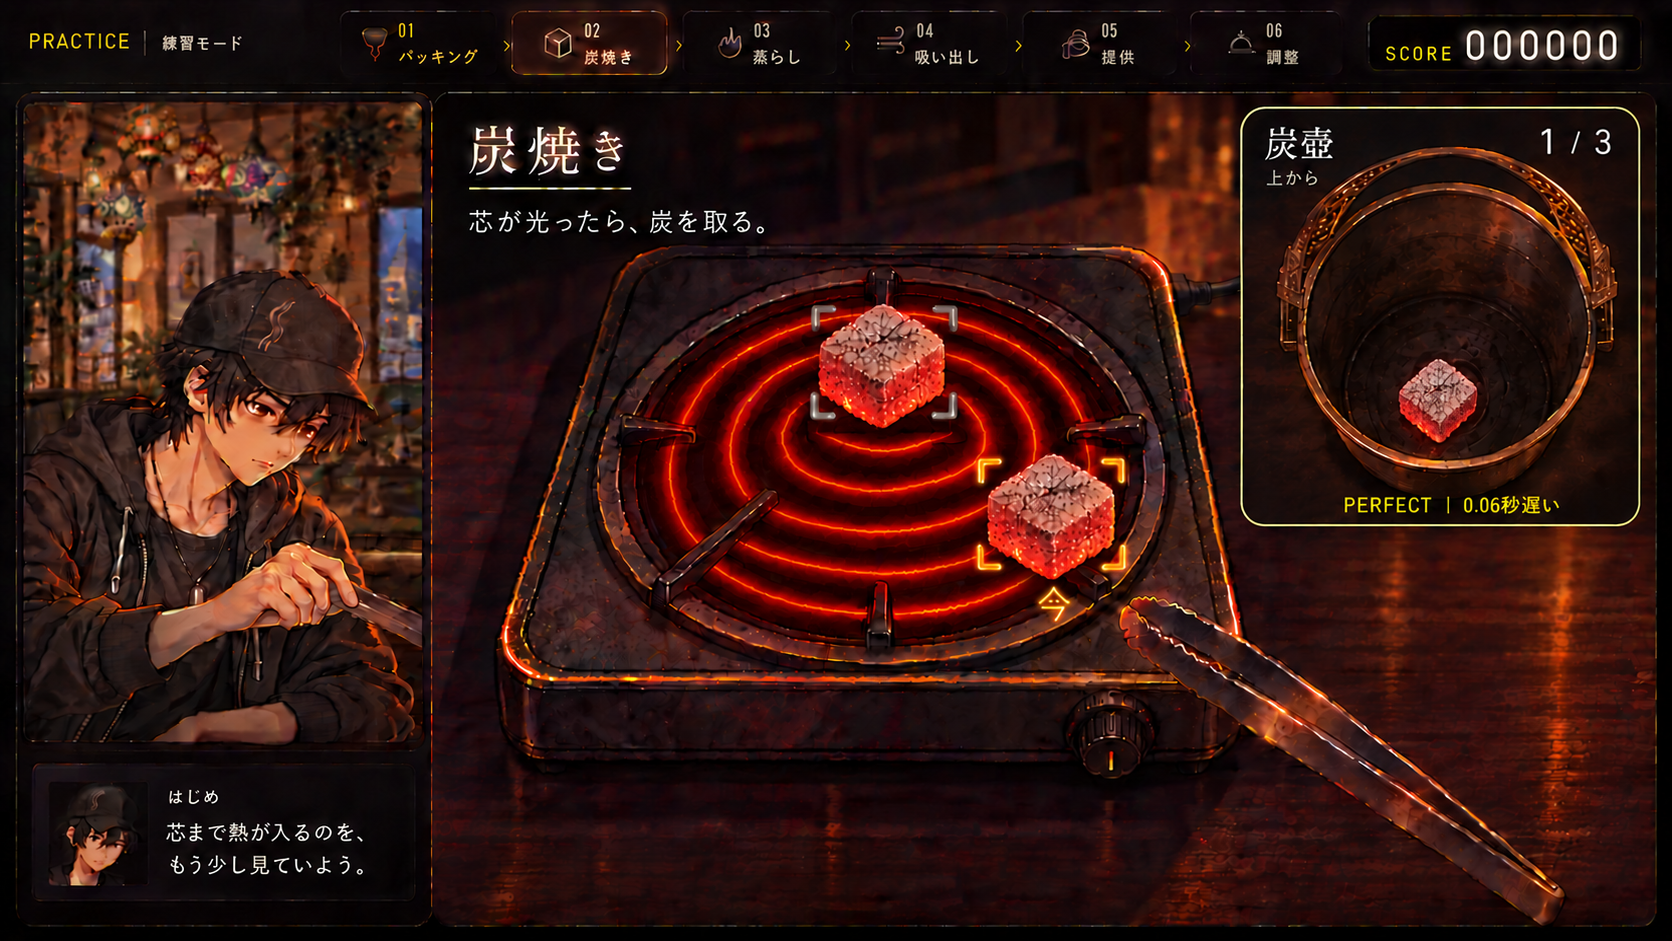
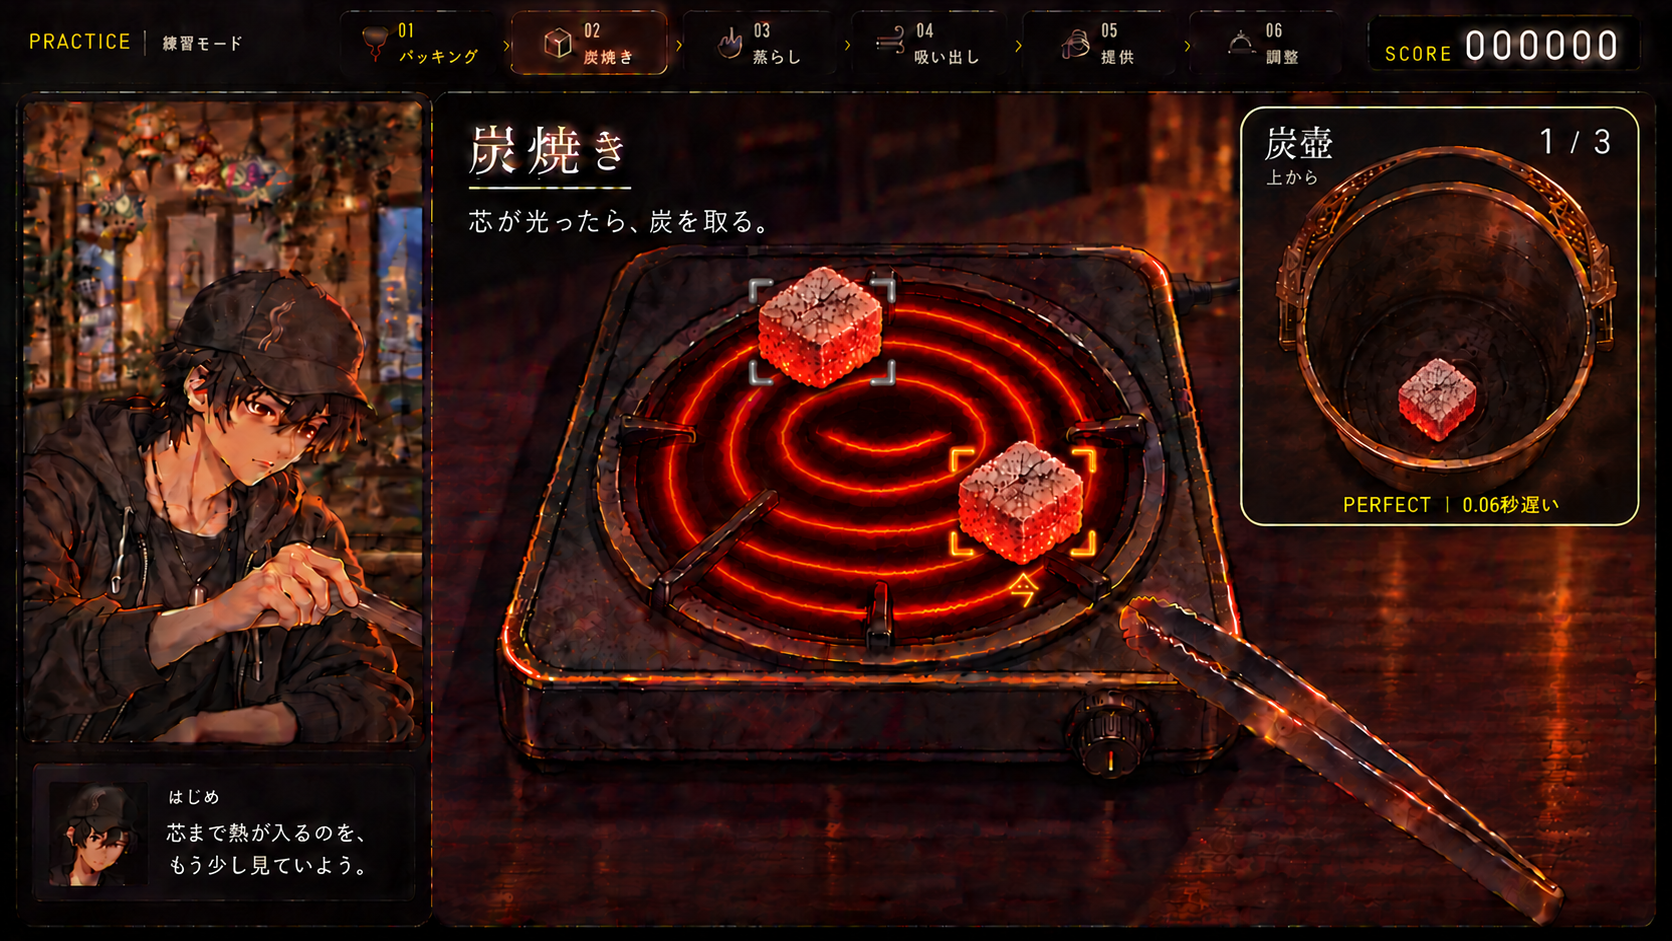
design(heat): place triangular coals on heated turns around clear center

diff --git a/asset_sources/coal-heat-ui-proposals/hybrid.html b/asset_sources/coal-heat-ui-proposals/hybrid.html
@@ -14,14 +14,14 @@
 <header><div><p class="eyebrow">水煙前線 -EN:CODE-　／　A × B HYBRID</p><h1>炭焼きUI</h1></div><div class="scope">静止モック<br>画像を押すと拡大</div></header>
 <main>
 <div class="toolbar"><div class="tabs" role="tablist" aria-label="取り出し前後"><button class="tab" role="tab" id="before" aria-selected="true" aria-controls="single" data-state="before">取り出す前 · 0/3</button><button class="tab" role="tab" id="after" aria-selected="false" aria-controls="single" tabindex="-1" data-state="after">1個回収後 · 1/3</button></div><button class="compare-btn" id="compare" aria-pressed="false">前後を並べる</button></div>
-<section id="single" role="tabpanel" aria-labelledby="before"><div class="viewer"><img id="hero" src="AB-hybrid-before.png?rev=layout-v6" alt="取り出し前。番号のない炭3個を同じ向きで平置きし、互いに離した配置。炭壺に0個。コンロ後部に電源コード。右上の角丸小窓には別視点で上から見た空の炭壺。" tabindex="0" data-zoom></div></section>
-<section class="both" id="both" aria-label="回収前後の比較" hidden><figure><img src="AB-hybrid-before.png?rev=layout-v6" alt="取り出し前：番号のない炭3個を同じ向きで平置きし、互いに離した配置。炭壺に0個。" tabindex="0" data-zoom><figcaption>取り出す前 · 0/3</figcaption></figure><figure><img src="AB-hybrid-after.png?rev=layout-v6" alt="1個回収後：コンロに2個、別視点の角丸小窓の炭壺に1個。炭の番号なし。" tabindex="0" data-zoom><figcaption>1個回収後 · 1/3</figcaption></figure></section>
+<section id="single" role="tabpanel" aria-labelledby="before"><div class="viewer"><img id="hero" src="AB-hybrid-before.png?rev=ring-v7" alt="取り出し前。番号のない炭3個を同じ向きで平置き。奥は左奥のコイル上、手前2個は内側に寄せ、中央を空けた三角配置。炭壺に0個。コンロ後部に電源コード。右上の角丸小窓には別視点で上から見た空の炭壺。" tabindex="0" data-zoom></div></section>
+<section class="both" id="both" aria-label="回収前後の比較" hidden><figure><img src="AB-hybrid-before.png?rev=ring-v7" alt="取り出し前：番号のない炭3個を同じ向きで平置き。奥は左奥のコイル上、手前2個は内側に寄せ、中央を空けた三角配置。炭壺に0個。" tabindex="0" data-zoom><figcaption>取り出す前 · 0/3</figcaption></figure><figure><img src="AB-hybrid-after.png?rev=ring-v7" alt="1個回収後：コンロに2個、別視点の角丸小窓の炭壺に1個。炭の番号なし。" tabindex="0" data-zoom><figcaption>1個回収後 · 1/3</figcaption></figure></section>
 </main>
 <footer><a href="README.md">提案・制作記録</a></footer>
 <dialog id="zoom"><div class="bar"><span id="zoom-title"></span><button class="close" id="close">閉じる　Esc</button></div><img id="zoom-image" alt=""></dialog>
-<div id="board"><div class="board-top"><p class="eyebrow">水煙前線 -EN:CODE-　／　A × B HYBRID</p><h1>炭焼きUI</h1></div><div class="both"><figure><img src="AB-hybrid-before.png?rev=layout-v6" alt="取り出し前"><figcaption>取り出す前 · コンロ3個 ／ 炭壺0個</figcaption></figure><figure><img src="AB-hybrid-after.png?rev=layout-v6" alt="1個回収後"><figcaption>1個回収後 · コンロ2個 ／ 炭壺1個</figcaption></figure></div></div>
+<div id="board"><div class="board-top"><p class="eyebrow">水煙前線 -EN:CODE-　／　A × B HYBRID</p><h1>炭焼きUI</h1></div><div class="both"><figure><img src="AB-hybrid-before.png?rev=ring-v7" alt="取り出し前"><figcaption>取り出す前 · コンロ3個 ／ 炭壺0個</figcaption></figure><figure><img src="AB-hybrid-after.png?rev=ring-v7" alt="1個回収後"><figcaption>1個回収後 · コンロ2個 ／ 炭壺1個</figcaption></figure></div></div>
 <script>
-const states={before:{file:'AB-hybrid-before.png?rev=layout-v6',alt:'取り出し前：番号のない炭3個を同じ向きで平置きし、互いに離した配置。炭壺に0個。'},after:{file:'AB-hybrid-after.png?rev=layout-v6',alt:'1個回収後：コンロに2個、別視点の角丸小窓の炭壺に1個。炭の番号なし。'}};
+const states={before:{file:'AB-hybrid-before.png?rev=ring-v7',alt:'取り出し前：番号のない炭3個を同じ向きで平置き。奥は左奥のコイル上、手前2個は内側に寄せ、中央を空けた三角配置。炭壺に0個。'},after:{file:'AB-hybrid-after.png?rev=ring-v7',alt:'1個回収後：コンロに2個、別視点の角丸小窓の炭壺に1個。炭の番号なし。'}};
 const tabs=[...document.querySelectorAll('.tab')],single=document.getElementById('single'),both=document.getElementById('both'),compare=document.getElementById('compare');let current='before';
 function show(key){current=key;const s=states[key];tabs.forEach(t=>{const on=t.dataset.state===key;t.setAttribute('aria-selected',String(on));t.tabIndex=on?0:-1});single.setAttribute('aria-labelledby',key);document.getElementById('hero').src=s.file;document.getElementById('hero').alt=s.alt;single.hidden=false;both.hidden=true;compare.setAttribute('aria-pressed','false');history.replaceState(null,'','#'+key)}
 tabs.forEach((t,i)=>{t.addEventListener('click',()=>show(t.dataset.state));t.addEventListener('keydown',e=>{let n;if(e.key==='ArrowLeft'||e.key==='ArrowRight')n=1-i;if(e.key==='Home')n=0;if(e.key==='End')n=1;if(n!==undefined){e.preventDefault();show(tabs[n].dataset.state);tabs[n].focus()}})});

diff --git a/asset_sources/coal-heat-ui-proposals/README.md b/asset_sources/coal-heat-ui-proposals/README.md
@@ -2,7 +2,7 @@
 
 ## 最新の選定モック：A/B統合・実物の炭と炭壺
 
-ユーザーがA/Bのハイブリッドを選定。炭の質感と炭壺を実物に寄せ、凡例を削除し、電源コードを後部へ修正。炭壺は右上の独立した角丸小窓へ移し、上から見る別視点として表示する。最新モックでは炭の番号を全て外し、コンロ上の3個を同じ向きで平置きして、互いの間にコイルが見える間隔を空けた。回収炭にも灰・欠けた輪郭・赤い熾きを残す。
+ユーザーがA/Bのハイブリッドを選定。炭の質感と炭壺を実物に寄せ、凡例を削除し、電源コードを後部へ修正。炭壺は右上の独立した角丸小窓から上面を表示する。番号のない3個の炭を同じ向きで平置きし、最新モックでは奥の1個を左奥のコイル上へずらし、手前の2個を外縁から内側へ寄せた。中央を空け、互いの間にコイルが見える三角配置にする。回収炭にも灰・欠けた輪郭・赤い熾きを残す。
 
 [専用プレビュー](https://shisha-coal-ui-preview.briskdill17.chatgpt.site) ／ [統合版の前後比較ページ](hybrid.html) ／ [前後の一覧画像](hybrid-comparison.png) ／ [実物の参考と描き分け](hybrid-reference.md)
 
@@ -13,14 +13,14 @@
 - **焼け頃の炭**：薄い白〜灰色の灰と赤い熾き。大きな黒い未着火の面・溶岩の割れ目・白い火口を見直し、圧縮された炭の細かな粒を描く。
 - **回収先**：単一の深い金属の炭壺を、右上の角丸小窓に上から表示。枠・視点の違いで別のカメラだと示す。仕切りや3つの収納枠は使わない。
 - **操作**：Aの寄り画を土台に、Bの角括弧・「今」で取る炭を示す。炭ごとの丸い番号バッジと判定文の「炭2」は削除。工程番号、SCORE、0/3→1/3の進行表示は維持する。
-- **置き方**：炭の底面がコイルへ接する平置きにそろえ、向き・傾きもそろえる。奥に1個、手前左右に2個の三角配置を広げ、炭同士の間に見える隙間を作る。回収後も残る炭を移動しない。熱が入りそうに見える配置の提案であり、均等加熱の実測や本編の焼ける速度の変更は行っていない。
+- **置き方**：炭の底面がコイルへ接する平置きにそろえ、向き・傾きもそろえる。奥の1個を11時方向のコイルへ、手前左右の2個を中ほどのコイルへ寄せる。中央の非コイル部分と外縁を避け、間隔のある三角配置を保つ。回収後も残る炭を移動しない。加熱部へ底面を乗せる配置の提案であり、均等加熱の実測や本編の焼ける速度の変更は行っていない。
 - **個数**：取り出し前はコンロ3個／壺0個。1個回収後はコンロ2個／壺1個。回収数と短い判定記録は角丸小窓の中へまとめる。
 - **説明の整理**：「黒い芯→赤熱→芯が光る→灰かぶり」の常設カードを画像から削除。比較ページ下の説明も外し、画像と前後切替を中心にする。
 - **電源**：前面の誤った接続部と下のコードを削除し、コンロ後部の右寄りから一本のコードを引き出す。加熱部を跨がず、奥の台から画面外の電源へ続く。
 - **持ち手**：長い持ち手は小窓の奥側へ向け、上から中身を見られる姿勢へ。深い一つの受け部を維持する。
 - **炭のつながり**：整った別のキューブへ置換せず、灰の粒・欠けた角・赤い熾きを回収炭にも残す。小窓は独立した視点なので、メインと同じ距離にある小さな物体として見せない。
 
-炭壺の小窓は突起のない普通の角丸四角を維持。[最新の配置・番号削除の編集指示と原画確認](hybrid-layout-generation.json)。番号は消えたものの間隔が狭かった最初の生成を [iterations/layout-v6-first/](iterations/layout-v6-first/) に保存し、配置を広げた修正版を採用した。直前の番号あり版はコミット `7f52c2d4c27cc26db22f5a85de353ad50a9219fd` に保存。小窓の制作履歴は [hybrid-inset-generation.json](hybrid-inset-generation.json)。同じ机の上に小さな炭壺を置いていた前版と寸法計算は [iterations/hybrid-v3/](iterations/hybrid-v3/) に保存。前面コード版は [iterations/hybrid-v2/](iterations/hybrid-v2/)、説明カードあり・電源コードなし版は [iterations/hybrid-v1/](iterations/hybrid-v1/) に保存。
+炭壺の小窓は突起のない普通の角丸四角を維持。[最新の中央・外縁を避ける配置修正](hybrid-ring-generation.json)。移動が小さすぎた初回生成は [iterations/ring-v7-first/](iterations/ring-v7-first/) に保存し、奥を左奥へずらした修正版を採用した。直前の番号なし・配置拡張版はコミット `cd494f8042201c050145e825998046744bb234e6` と [hybrid-layout-generation.json](hybrid-layout-generation.json) に保存。番号ありの角丸小窓版はコミット `7f52c2d4c27cc26db22f5a85de353ad50a9219fd` と [hybrid-inset-generation.json](hybrid-inset-generation.json)。同じ机の上に小さな炭壺を置いていた前版と寸法計算は [iterations/hybrid-v3/](iterations/hybrid-v3/) に保存。前面コード版は [iterations/hybrid-v2/](iterations/hybrid-v2/)、説明カードあり・電源コードなし版は [iterations/hybrid-v1/](iterations/hybrid-v1/) に保存。
 
 統合版も採用前の静止モック。本編操作・採点・回収アニメーションは未接続。旧3案と初版は比較履歴として残す。下の旧案に描かれた炭の質感と3区画の回収皿は採用しない。
 
